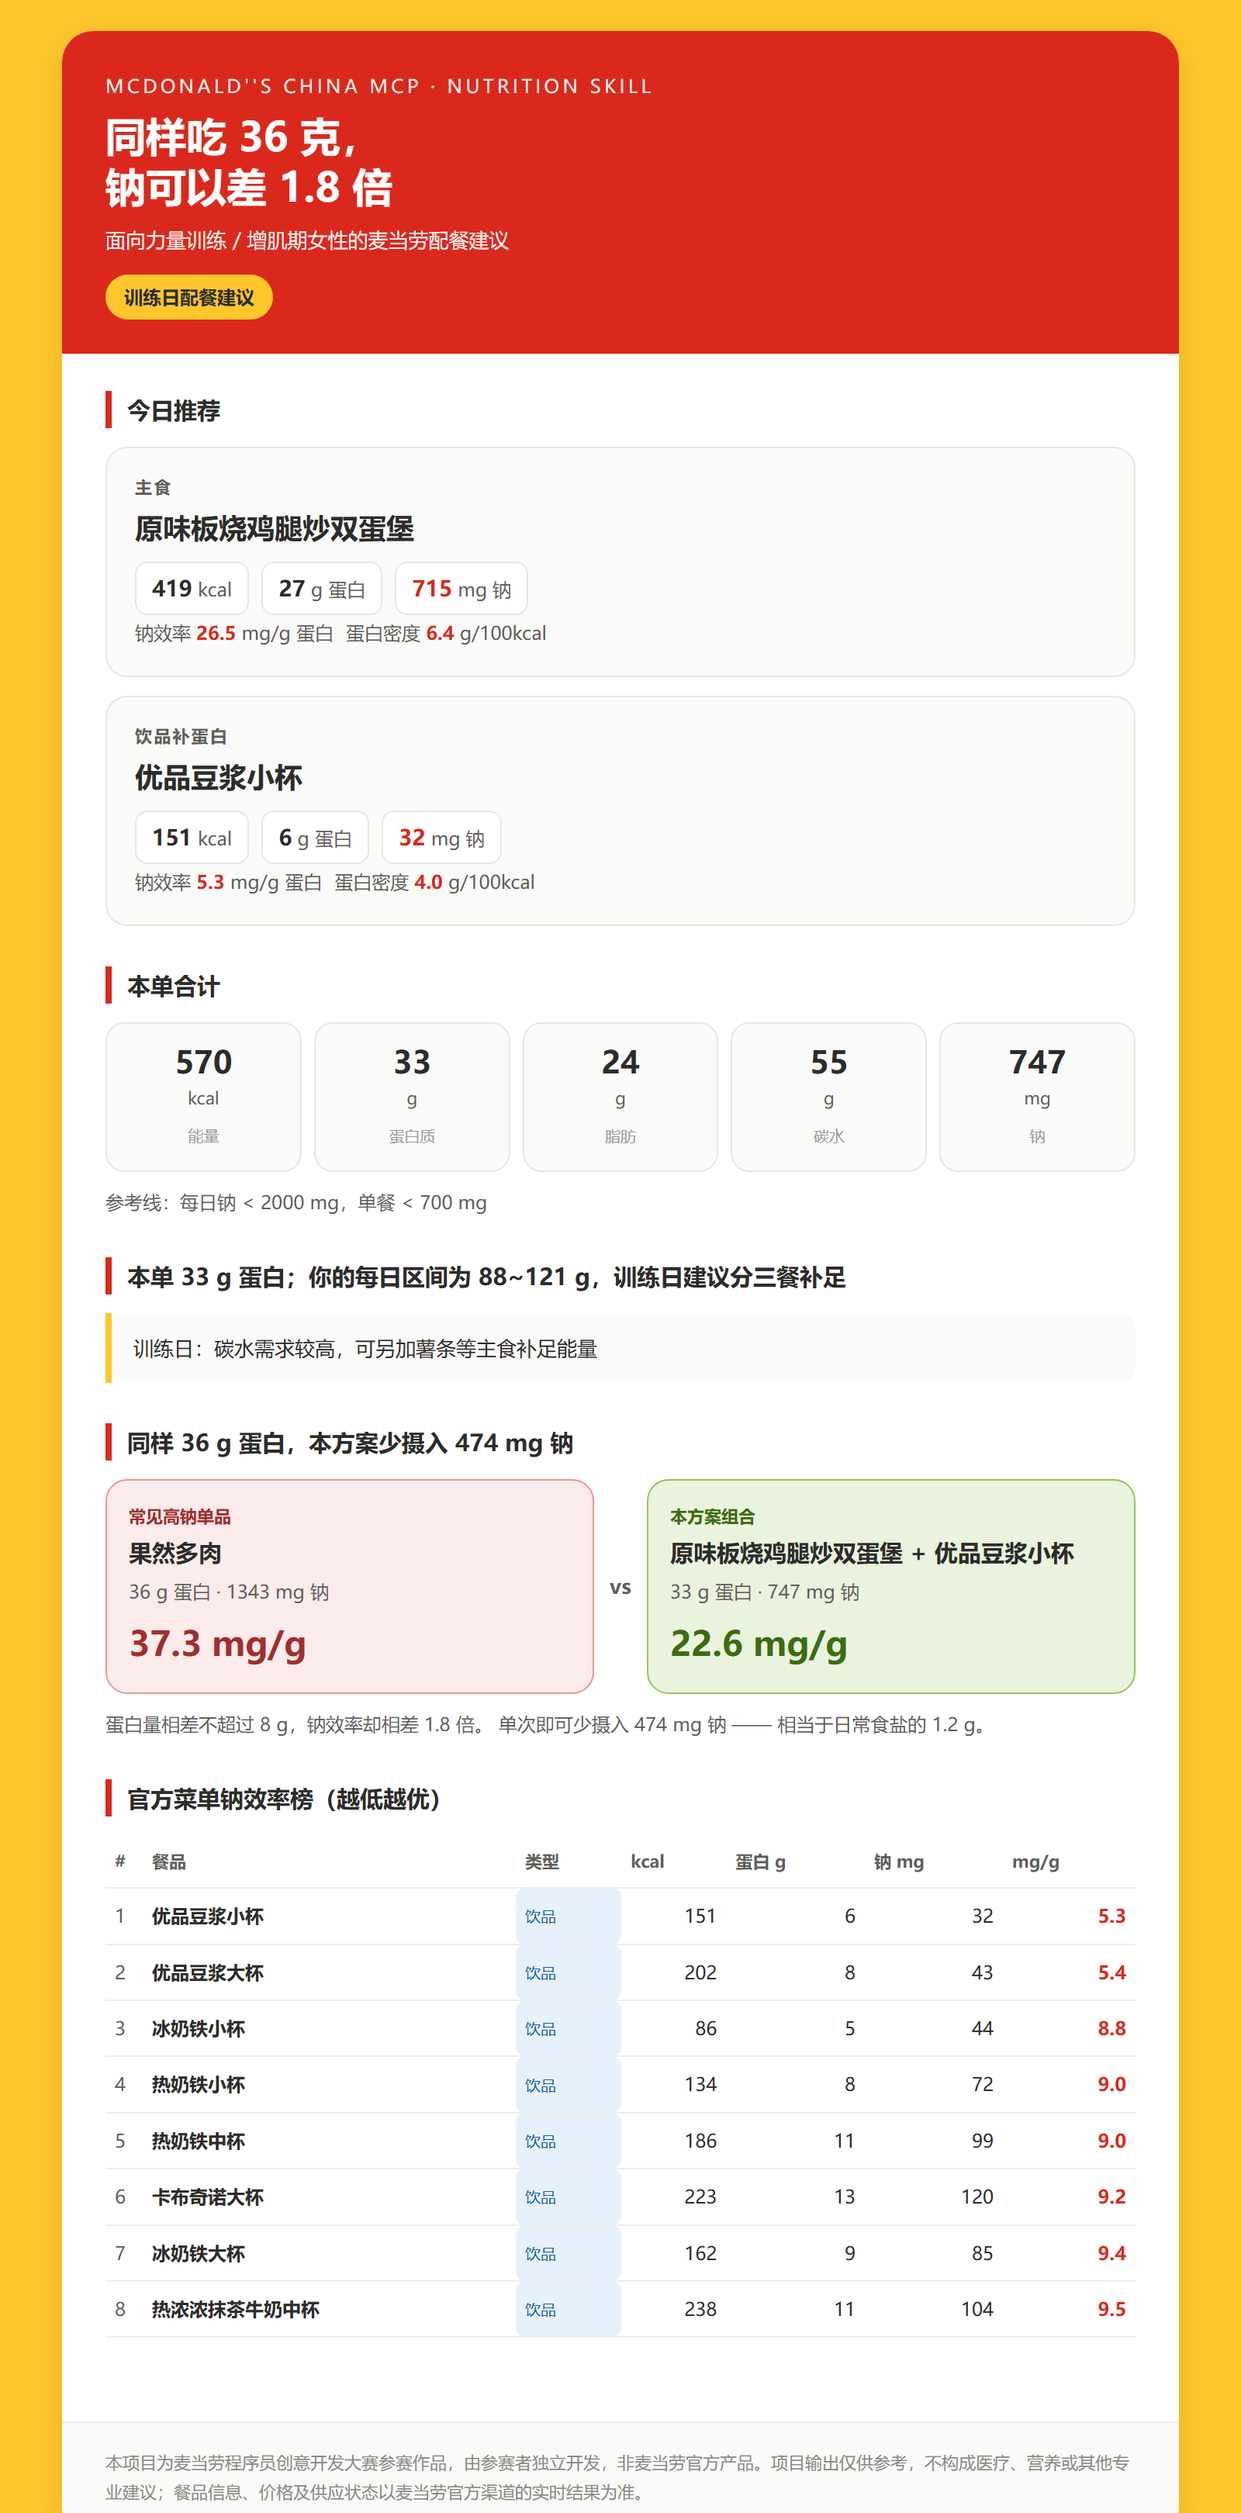
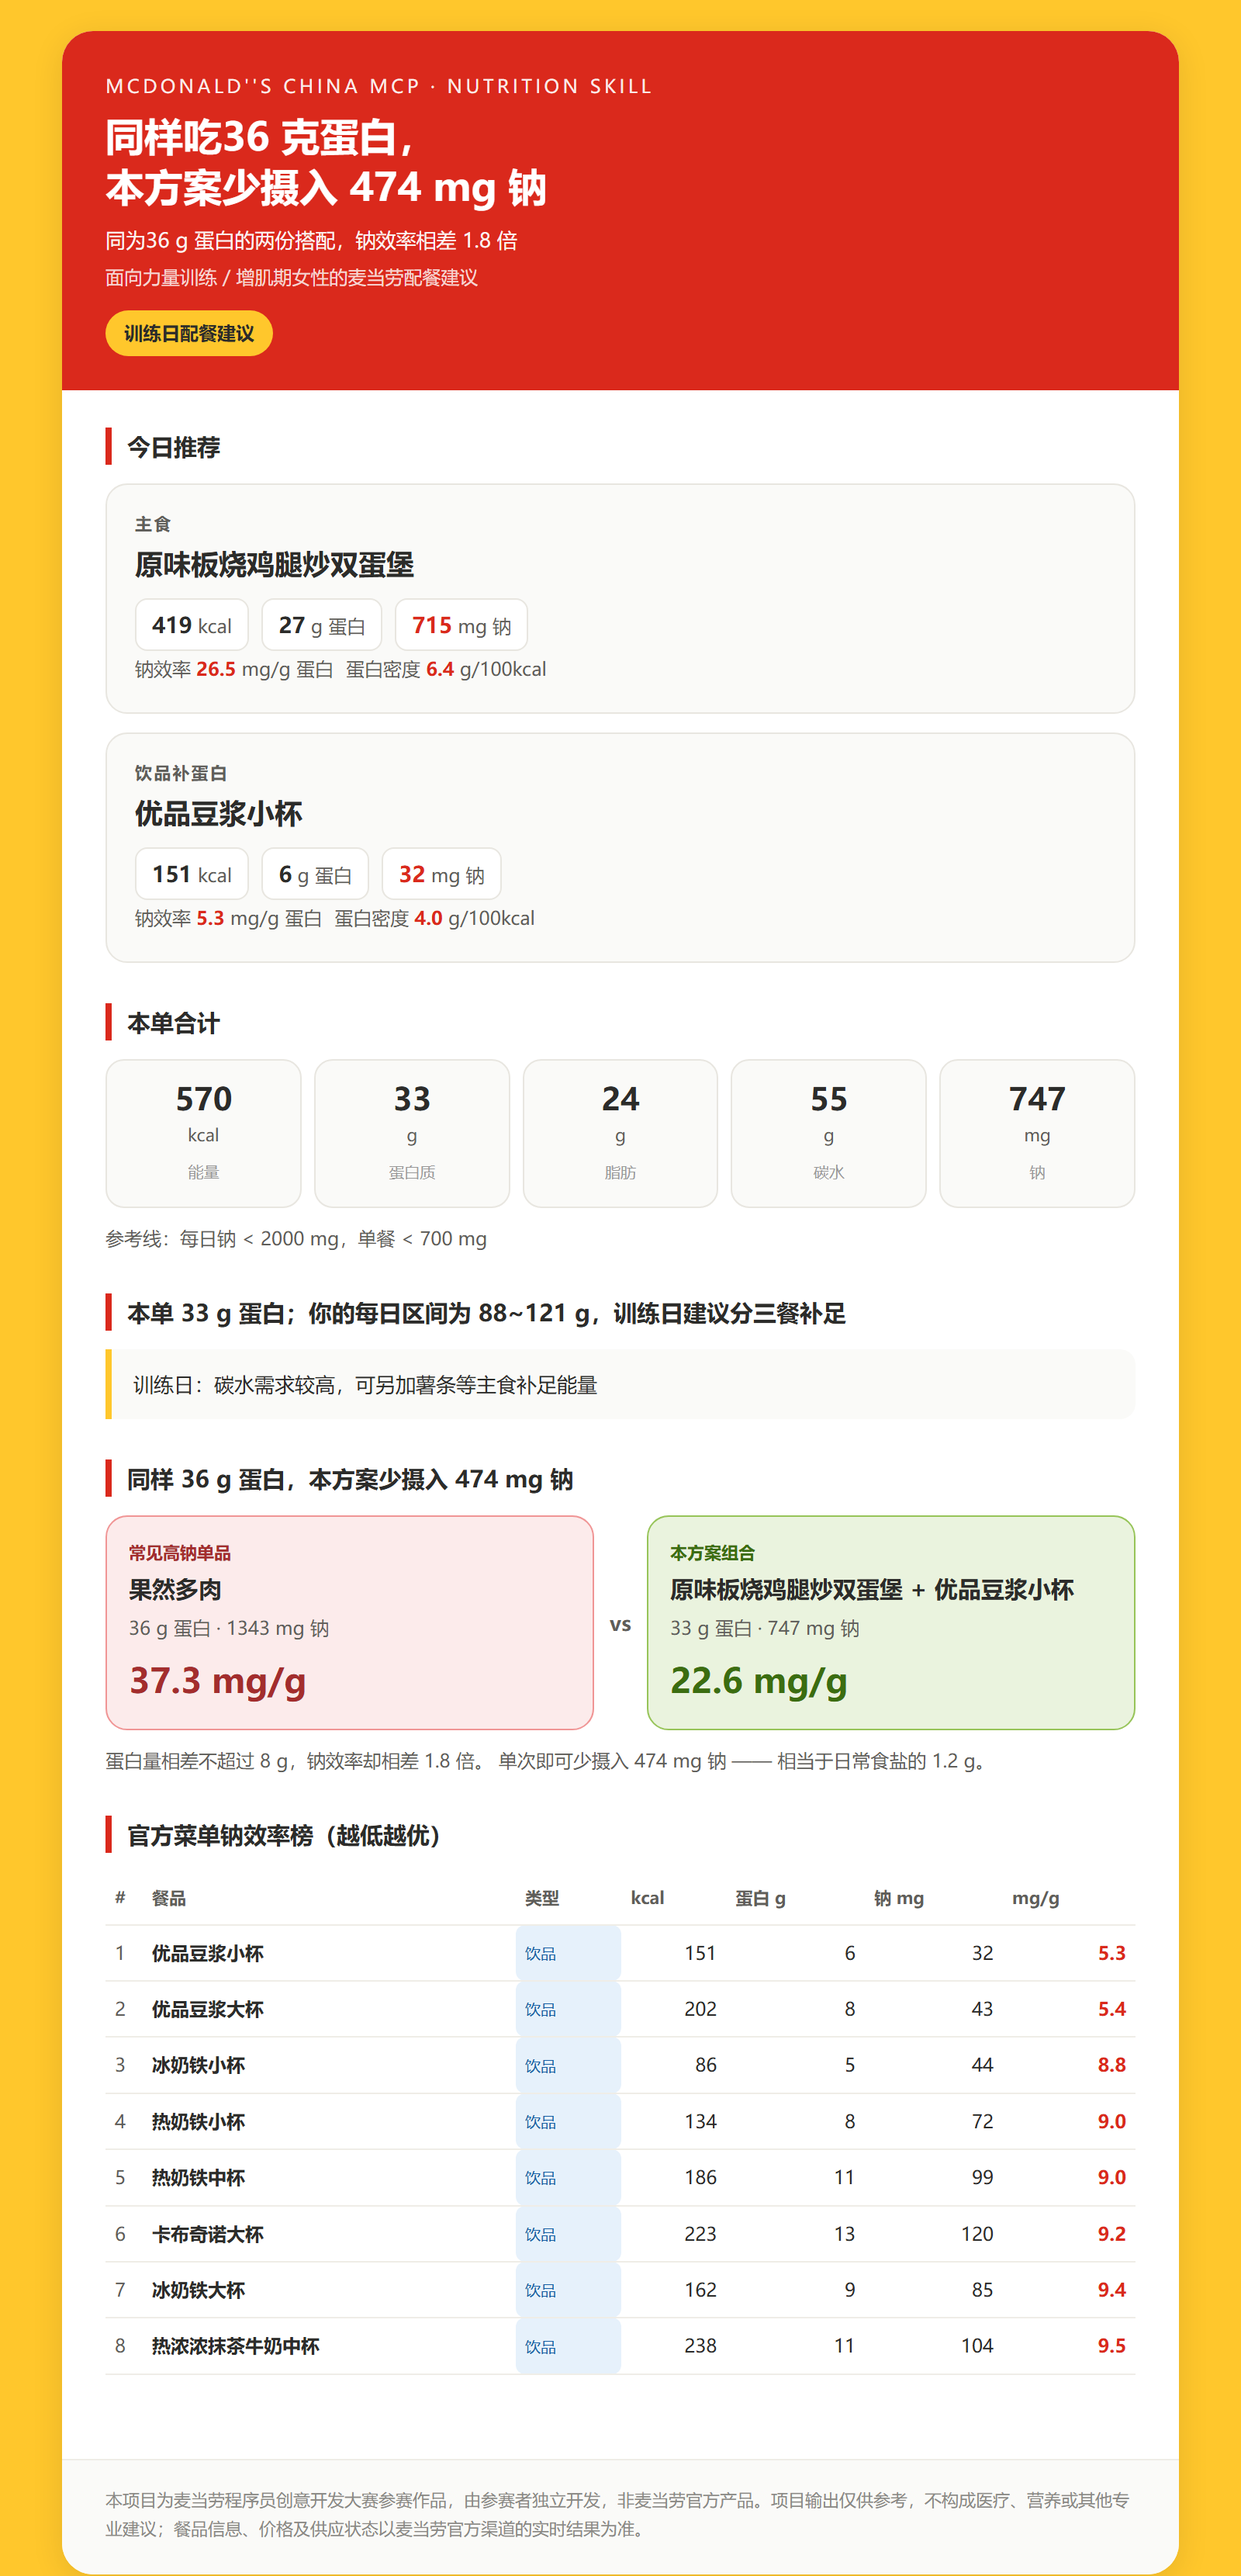
docs: 修正钠效率极差倍数并补充报名文案
- 修正数值：火腿扒早安营养卷钠效率 67.0 → 66.6，全表极差 4.7 倍 → 6.5 倍
- 配餐卡首屏标题改为准确口径（本方案少摄入 474mg 钠），避免与全表极值混淆
- 新增 docs/SUBMISSION.md：仓库简介、Topics、Issue 标题与正文
- 排除 .workbuddy/ 本地记忆目录

diff --git a/examples/sample-card-live.html b/examples/sample-card-live.html
@@ -21,8 +21,9 @@
     font-size: 12px; letter-spacing: .18em; opacity: .9;
     text-transform: uppercase; margin-bottom: 6px;
   }
-  .head h1 { font-size: 26px; font-weight: 700; line-height: 1.25; }
-  .head .sub { font-size: 13px; opacity: .92; margin-top: 8px; }
+  .head h1 { font-size: 25px; font-weight: 700; line-height: 1.3; }
+  .head .sub { font-size: 13px; opacity: .94; margin-top: 8px; }
+  .head .sub2 { font-size: 12px; opacity: .80; margin-top: 4px; }
   .badge {
     display: inline-block; margin-top: 12px; padding: 5px 12px;
     background: #FFC72C; color: #2C2C2A;
@@ -105,8 +106,9 @@
 <div class="sheet">
   <div class="head">
     <div class="eyebrow">McDonald'&#39;s China MCP · Nutrition Skill</div>
-    <h1>同样吃 36 克，<br>钠可以差 1.8 倍</h1>
-    <div class="sub">面向力量训练 / 增肌期女性的麦当劳配餐建议</div>
+    <h1>同样吃36 克蛋白，<br>本方案少摄入 474 mg 钠</h1>
+    <div class="sub">同为36 g 蛋白的两份搭配，钠效率相差 1.8 倍</div>
+    <div class="sub2">面向力量训练 / 增肌期女性的麦当劳配餐建议</div>
     <div class="badge">训练日配餐建议</div>
   </div>
 

diff --git a/scripts/build_card.py b/scripts/build_card.py
@@ -183,6 +183,26 @@ def render_card(plan: Plan, top_items: list[Item] | None = None) -> str:
 
     day_label = "训练日配餐建议" if plan.profile.training_day else "休息日配餐建议"
 
+    # 首屏标题：明确对比口径，避免与"全表极差"混淆
+    if plan.baseline and plan.baseline_ratio >= 1.5:
+        headline_line1 = f"{plan.baseline.protein} 克蛋白"
+        headline_line2 = f"本方案少摄入 {plan.baseline_saved} mg 钠"
+    elif plan.counterpart:
+        base_eff = eff
+        c_eff = plan.counterpart.sodium_efficiency() or 0
+        headline_line1 = f"{plan.main.protein} 克蛋白"
+        headline_line2 = f"钠效率可以差 {base_eff / c_eff:.1f} 倍" if c_eff else "钠效率可以大幅优化"
+    else:
+        headline_line1 = f"{plan.totals['protein']} 克蛋白"
+        headline_line2 = "按钠效率优选"
+
+    headline_sub = (
+        "同为"
+        f"{plan.baseline.protein} g 蛋白的两份搭配，钠效率相差 {plan.baseline_ratio:.1f} 倍"
+        if plan.baseline and plan.baseline_ratio >= 1.5
+        else "依据钠效率 = 钠(mg) ÷ 蛋白(g) 优选"
+    )
+
     return f"""<!DOCTYPE html>
 <html lang="zh-CN">
 <head>
@@ -206,8 +226,9 @@ def render_card(plan: Plan, top_items: list[Item] | None = None) -> str:
     font-size: 12px; letter-spacing: .18em; opacity: .9;
     text-transform: uppercase; margin-bottom: 6px;
   }}
-  .head h1 {{ font-size: 26px; font-weight: 700; line-height: 1.25; }}
-  .head .sub {{ font-size: 13px; opacity: .92; margin-top: 8px; }}
+  .head h1 {{ font-size: 25px; font-weight: 700; line-height: 1.3; }}
+  .head .sub {{ font-size: 13px; opacity: .94; margin-top: 8px; }}
+  .head .sub2 {{ font-size: 12px; opacity: .80; margin-top: 4px; }}
   .badge {{
     display: inline-block; margin-top: 12px; padding: 5px 12px;
     background: {MCD_YELLOW}; color: {INK};
@@ -290,8 +311,9 @@ def render_card(plan: Plan, top_items: list[Item] | None = None) -> str:
 <div class="sheet">
   <div class="head">
     <div class="eyebrow">McDonald'&#39;s China MCP · Nutrition Skill</div>
-    <h1>同样吃 {_e(headline_word)}，<br>钠可以差 {headline_ratio:.1f} 倍</h1>
-    <div class="sub">面向力量训练 / 增肌期女性的麦当劳配餐建议</div>
+    <h1>同样吃{_e(headline_line1)}，<br>{_e(headline_line2)}</h1>
+    <div class="sub">{_e(headline_sub)}</div>
+    <div class="sub2">面向力量训练 / 增肌期女性的麦当劳配餐建议</div>
     <div class="badge">{day_label}</div>
   </div>
 

diff --git a/docs/SUBMISSION.md b/docs/SUBMISSION.md
@@ -1,0 +1,154 @@
+# GitHub 仓库简介与报名 Issue 文案
+
+> 用于 `hachiday/mcd-women-fitness-meals-skill` 的仓库设置与赛事报名。
+> 所有文案均已通过赛事内容合规红线检查：不出现其他餐饮品牌、不以减肥为叙事、不含医疗建议。
+
+---
+
+## 一、仓库简介（GitHub About）
+
+GitHub 仓库简介上限 **350 字符**。以下为推荐版本。
+
+### 推荐版（110 字符）
+
+```
+面向力量训练/增肌期女性的麦当劳配餐 Skill。基于官方 MCP 营养数据，用「钠效率=钠÷蛋白」重排 160 条餐品：同样一份蛋白，钠可以差 6.5 倍。产出可截图分享的 HTML 配餐卡。纯 Python 零依赖。
+```
+
+**为什么这样写**：
+
+| 要素 | 作用 |
+|---|---|
+| 「力量训练/增肌期女性」 | 精准圈定人群，一眼看出与泛营养项目的差异 |
+| 「钠效率=钠÷蛋白」 | 亮出独特指标，这是本项目唯一的差异化资产 |
+| 「160 条」 | 有具体规模，可信度高于「基于营养数据」 |
+| 「6.5 倍」 | 反直觉论断，制造点击欲 |
+| 「HTML 配餐卡」 | 说明产出物形态，对标头部项目的传播打法 |
+| 「纯 Python 零依赖」 | 降低试用门槛，对标竞品的卖点 |
+
+### 备选版（更短，69 字符）
+
+```
+麦当劳官方 MCP 配餐 Skill。用「钠效率」重排营养数据：同样一份蛋白，钠可以差 6.5 倍。面向力量训练人群，输出可分享的配餐卡。
+```
+
+### 英文版（如需国际化，201 字符）
+
+```
+A McDonald's MCP skill for strength-training women. Re-ranks 160 official nutrition items by sodium-per-gram-of-protein — the same protein can differ 6.5x in sodium. Outputs a shareable HTML meal card.
+```
+
+---
+
+## 二、Topics（仓库标签）
+
+在仓库右侧 **Topics** 中添加，有助于被搜索发现。建议 5 个（上限 20）：
+
+```
+mcd-mcp
+mcdonalds
+nutrition
+agent-skill
+workbuddy
+```
+
+> 说明：与头部项目 `mcd-event-radar` 的 topics 策略一致（它用了 `agent-skill` `event-map` `mcdonalds` `mcp` `mcp-server` `skill` `workbuddy`）。
+
+---
+
+## 三、Issue 标题
+
+### 推荐
+
+```
+【参赛申请】麦练营养官 · 力量训练女性的蛋白/钠双锚点配餐 Skill
+```
+
+### 备选
+
+```
+【参赛申请】麦练营养官 mcd-lift-nutrition-coach —— 同样一份蛋白，钠可以差 6.5 倍
+```
+
+> 标题中的中文冒号 `：` 后需有一个空格，这是官方模板的原始写法，请勿改动。
+
+---
+
+## 四、Issue 正文
+
+> ⚠ **官方校验规则（务必遵守）**：
+> 1. **【项目简介】的标题与正文之间不要使用换行符** —— 即 `项目简介：xxx` 后面直接接内容
+> 2. **项目地址链接不要用 Markdown 格式** —— 直接粘贴纯 URL，不要用 `[]()` 或反引号
+
+### 可直接复制粘贴的完整版
+
+```
+【参赛申请】
+项目名称：麦练营养官 · mcd-lift-nutrition-coach
+项目地址：https://github.com/hachiday/mcd-women-fitness-meals-skill
+项目简介：同样吃一份蛋白，麦当劳菜单里钠可以差 6.5 倍。本项目面向力量训练/增肌期女性，把官方 MCP 的 160 条营养数据重排为「钠效率=钠(mg)÷蛋白(g)」这一决策指标，回答训练人群真正关心的问题——蛋白要吃够，代价是多少钠。实测同为约15克蛋白的两款餐品，钠效率从 10.3 到 66.6；引擎给出的方案可在同等蛋白下少摄入约 474mg 钠。产出可直接截图分享的单文件 HTML 配餐卡与纯文本速查表。纯 Python 标准库零依赖，自研 TOON 解析器处理官方返回的非 JSON 营养格式。已附 MCP_INTEGRATION.md 说明实际使用的 Server、Tool、调用流程与业务价值，并提交 workbuddy.md 记录腾讯 WorkBuddy 开发上下文。
+```
+
+---
+
+## 五、Issue 正文（精简版）
+
+若校验对长文本敏感，使用此版：
+
+```
+【参赛申请】
+项目名称：麦练营养官 · mcd-lift-nutrition-coach
+项目地址：https://github.com/hachiday/mcd-women-fitness-meals-skill
+项目简介：面向力量训练/增肌期女性的麦当劳配餐 Skill。把官方 MCP 的 160 条营养数据重排为「钠效率=钠÷蛋白」指标，实测同为约15克蛋白的餐品钠效率可差 6.5 倍，方案可在同等蛋白下少摄入约 474mg 钠。产出可截图分享的 HTML 配餐卡。纯 Python 零依赖，含 MCP_INTEGRATION.md 与 workbuddy.md。
+```
+
+---
+
+## 六、发布步骤
+
+1. 打开 <https://github.com/M-China/mcd-developer-innovation-challenge/issues>
+2. 选择 **New issue**
+3. 若有模板选择参赛申请模板（若无模板则直接新建空白 issue）
+4. 粘贴标题与正文
+5. 发布后等待系统回复报名成功/失败通知
+
+---
+
+## 七、报名成功后的必做事项
+
+| # | 事项 | 说明 |
+|---|---|---|
+| 1 | 确认仓库为 **Public** | 当前状态已确认为 public ✅ |
+| 2 | 补充 Topics | 见第二节 |
+| 3 | 设置仓库简介 | 见第一节 |
+| 4 | 推送本地新提交 | `.workbuddy/` 已从索引移除、标题与数字已修正，需推送 |
+| 5 | 保持仓库可访问 | 活动期间不可转为 Private |
+| 6 | **争取 Star** | 排名只看 Star，> 0 才能进榜 |
+
+### ⚠ 关于 Star 的重要性
+
+活动排名**完全依据 GitHub 公开 Star 数**：
+
+- Star = 0 → **不进榜、不获奖**
+- 前 100 名 → 汉堡回车键玩具 + 程序员节徽章 + **3,000 WorkBuddy 积分**
+- 前 3 名 → 另有巨无霸兑换券 + 10,240 积分
+
+当前 Star = 0。距报名截止（10/25 23:59）还有 15 天。
+
+---
+
+## 八、合规自查清单
+
+发布 Issue 前逐项确认：
+
+- [x] 项目名称不含违规内容
+- [x] 项目地址为纯 URL，无 Markdown 格式
+- [x] 项目简介标题与正文之间**无换行符**
+- [x] 简介中不含任何其他餐饮品牌名称
+- [x] 简介不以减肥/瘦身为叙事
+- [x] 简介不含医疗或营养建议
+- [x] 仓库内 `mcp-config.example.json` 仅含环境变量占位符
+- [x] 仓库内无真实 Token（已扫描验证）
+- [x] `CONTEST_DECLARATION.md` 为官方原版未改动
+- [x] 仓库创建时间在 2025-12-25 ~ 2026-10-25 区间内（实际 2026-10-10）
+- [x] 仓库为 Public

diff --git a/README.md b/README.md
@@ -1,6 +1,6 @@
 # 麦练营养官 · mcd-lift-nutrition-coach
 
-> **同样吃一份蛋白，钠可以差 4.7 倍。**
+> **同样吃一份蛋白，钠可以差 6.5 倍。**
 
 面向**力量训练 / 增肌期女性**的麦当劳配餐 Skill。依据麦当劳官方 MCP 营养数据，把 160 条原始营养表重组成一个直接可用的指标：**钠效率 = 钠(mg) ÷ 蛋白质(g)**。
 
@@ -49,9 +49,9 @@
 | 冰牛奶大杯 | 15 g | **154 mg** | **10.3** |
 | 儿童鱼排堡 | 15 g | 442 mg | 29.5 |
 | 猪柳麦满分 | 16 g | 781 mg | 48.8 |
-| 火腿扒早安营养卷 | 16 g | 1065 mg | 67.0 |
+| 火腿扒早安营养卷 | 16 g | 1065 mg | 66.6 |
 
-> 同为约 15~16 g 蛋白质，**钠效率相差 4.7 倍**。
+> 同为约 15~16 g 蛋白质，**钠效率相差 6.5 倍**。
 > 其中「冰牛奶大杯」以极低的钠提供可观蛋白质，是整张表里的低钠蛋白锚点。
 
 引擎在真实数据上跑出的方案：

diff --git a/docs/adr/0001-sodium-efficiency-over-calorie-deficit.md b/docs/adr/0001-sodium-efficiency-over-calorie-deficit.md
@@ -29,13 +29,13 @@
 | 冰牛奶大杯 | 15 g | 154 mg | **10.3** |
 | 儿童鱼排堡 | 15 g | 442 mg | **29.5** |
 | 猪柳麦满分 | 16 g | 781 mg | **48.8** |
-| 火腿扒早安营养卷 | 16 g | 1065 mg | **67.0** |
+| 火腿扒早安营养卷 | 16 g | 1065 mg | **66.6** |
 
-> 同为约 15~16 g 蛋白质，钠效率相差 **4.7 倍**。这是一个可验证、可复现、可截图传播的事实。
+> 同为约 15~16 g 蛋白质，钠效率相差 **6.5 倍**。这是一个可验证、可复现、可截图传播的事实。
 
 ### 3. 传播性更强
 
-「同样 15 克蛋白，钠差 4.7 倍」是一个**具体、反直觉、可对比**的论断。相比之下「建议控制热量」缺乏记忆点，不具备传播动力。
+「同样 15 克蛋白，钠差 6.5 倍」是一个**具体、反直觉、可对比**的论断。相比之下「建议控制热量」缺乏记忆点，不具备传播动力。
 
 ### 4. 合规安全
 

diff --git a/workbuddy.md b/workbuddy.md
@@ -319,7 +319,7 @@ cancel-order                 query-party-store
 **修复**：为主食候选加入「蛋白 ≥14g 且热量 ≤700 kcal」双重约束。
 
 **问题 2 · 组合对比论断无法生成**
-修复问题 1 后，因引擎已选出主食候选池中最优单品，导致不存在「更好的对照单品」，ADR 中那条 4.7 倍的核心论断无法进入输出。
+修复问题 1 后，因引擎已选出主食候选池中最优单品，导致不存在「更好的对照单品」，ADR 中那条 6.5 倍的核心论断无法进入输出。
 **修复**：将对比维度从「单品 vs 单品」改为「**组合 vs 单品**」—— 用「主食 + 低钠蛋白锚点」对比「同等蛋白量的高钠单品」。这既更贴近真实用法，也产出了更有说服力的论断：**同样 33g 蛋白，少摄入 474mg 钠**。
 
 **问题 3 · HTML 配餐卡生成为 0 字节**

diff --git a/MCP_INTEGRATION.md b/MCP_INTEGRATION.md
@@ -154,9 +154,9 @@ content[0].text
 | 冰牛奶大杯 | 15 g | 154 mg | **10.3** |
 | 儿童鱼排堡 | 15 g | 442 mg | **29.5** |
 | 猪柳麦满分 | 16 g | 781 mg | **48.8** |
-| 火腿扒早安营养卷 | 16 g | 1065 mg | **67.0** |
+| 火腿扒早安营养卷 | 16 g | 1065 mg | **66.6** |
 
-> 同为约 15~16 g 蛋白质，钠效率相差 **4.7 倍**。
+> 同为约 15~16 g 蛋白质，钠效率相差 **6.5 倍**。
 
 引擎在真实数据上实测生成的方案：
 
